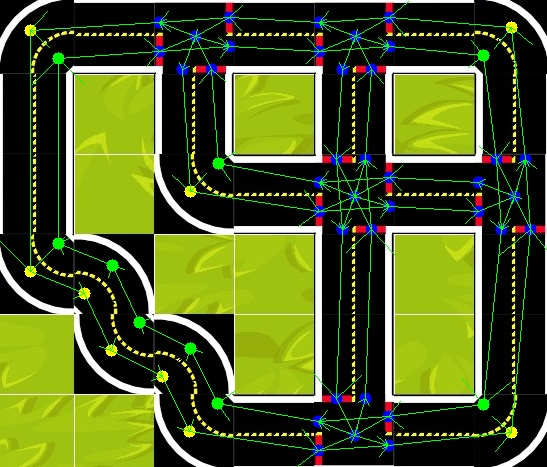
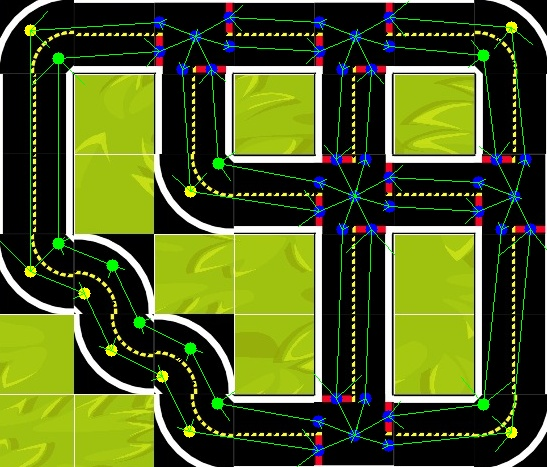
removed straight lines on intersections

diff --git a/graph_drawer/main.py b/graph_drawer/main.py
@@ -1102,29 +1102,29 @@ for node in centerBlock:
                 square_x_end = node_x + 5
 
                 #cv2.rectangle(result,(square_x_start,square_y_start),(square_x_end,square_y_end),(0,0,255),1)
-                for verExt in verticalExtensionNodes:
-                    verExt_x = verExt['x']
-                    verExt_y = verExt['y']
-                    findClose(square_x_start,square_x_end,square_y_start,square_y_end,verExt_x,verExt_y, node_x,node_y, resultBorder)
-                    #Search for turning point
+                # for verExt in verticalExtensionNodes:
+                #     verExt_x = verExt['x']
+                #     verExt_y = verExt['y']
+                #     findClose(square_x_start,square_x_end,square_y_start,square_y_end,verExt_x,verExt_y, node_x,node_y, resultBorder)
+                #     #Search for turning point
                 
-                if(foundNode['weight'] != 0):
-                    edges.append({
-                            'from': (int(node_x),int(node_y)),
-                            'to': (int(foundNode['x']),int(foundNode['y'])),
-                            'weight': int(foundNode['weight'])
-                        })
-                    for verExt in verticalExtensionNodes:
-                        if(verExt['x'] == foundNode['x']) and (verExt['y'] == foundNode['y']):
-                            verExt['from'] = (node_x,node_y)
-                            node['to'] = (verExt_x,verExt_y)
-                            if(verExt['road'] >= node['road']):
-                                verExt['road'] = node['road']
-                            else: 
-                                node['road'] = verExt['road']
-                    draw_arrow_with_weight(result,  (node_x, node_y),(foundNode['x'], foundNode['y']), foundNode['weight'])
-                    foundNode['weight'] = 0  
-                foundNode['weight'] = 0
+                # if(foundNode['weight'] != 0):
+                #     edges.append({
+                #             'from': (int(node_x),int(node_y)),
+                #             'to': (int(foundNode['x']),int(foundNode['y'])),
+                #             'weight': int(foundNode['weight'])
+                #         })
+                #     for verExt in verticalExtensionNodes:
+                #         if(verExt['x'] == foundNode['x']) and (verExt['y'] == foundNode['y']):
+                #             verExt['from'] = (node_x,node_y)
+                #             node['to'] = (verExt_x,verExt_y)
+                #             if(verExt['road'] >= node['road']):
+                #                 verExt['road'] = node['road']
+                #             else: 
+                #                 node['road'] = verExt['road']
+                #     draw_arrow_with_weight(result,  (node_x, node_y),(foundNode['x'], foundNode['y']), foundNode['weight'])
+                #     foundNode['weight'] = 0  
+                # foundNode['weight'] = 0
             #search right
             else:
                 square_x_start = node_x
@@ -1276,28 +1276,28 @@ for node in centerBlock:
                 square_x_start = node_x
                 square_x_end = cropped.shape[1]
 
-                for verExt in verticalExtensionNodes:
-                    verExt_x = verExt['x']
-                    verExt_y = verExt['y']
+                # for verExt in verticalExtensionNodes:
+                #     verExt_x = verExt['x']
+                #     verExt_y = verExt['y']
 
-                    findClose(square_x_start,square_x_end,square_y_start,square_y_end,verExt_x,verExt_y, node_x,node_y, resultBorder)
+                #     findClose(square_x_start,square_x_end,square_y_start,square_y_end,verExt_x,verExt_y, node_x,node_y, resultBorder)
 
-                if(foundNode['weight'] != 0):
-                    edges.append({
-                            'from': (int(node_x),int(node_y)),
-                            'to': (int(foundNode['x']),int(foundNode['y'])),
-                            'weight': int(foundNode['weight'])
-                        })
-                    for verExt in verticalExtensionNodes:
-                        if(verExt['x'] == foundNode['x']) and (verExt['y'] == foundNode['y']):
-                                verExt['from'] = (node_x,node_y)
-                                node['to'] = (verExt_x,verExt_y)
-                                if(verExt['road'] >= node['road']):
-                                    verExt['road'] = node['road']
-                                else: 
-                                    node['road'] = verExt['road']
-                    draw_arrow_with_weight(result,  (node_x, node_y),(foundNode['x'], foundNode['y']), foundNode['weight'])
-                    foundNode['weight'] = 0    
+                # if(foundNode['weight'] != 0):
+                #     edges.append({
+                #             'from': (int(node_x),int(node_y)),
+                #             'to': (int(foundNode['x']),int(foundNode['y'])),
+                #             'weight': int(foundNode['weight'])
+                #         })
+                #     for verExt in verticalExtensionNodes:
+                #         if(verExt['x'] == foundNode['x']) and (verExt['y'] == foundNode['y']):
+                #                 verExt['from'] = (node_x,node_y)
+                #                 node['to'] = (verExt_x,verExt_y)
+                #                 if(verExt['road'] >= node['road']):
+                #                     verExt['road'] = node['road']
+                #                 else: 
+                #                     node['road'] = verExt['road']
+                #     draw_arrow_with_weight(result,  (node_x, node_y),(foundNode['x'], foundNode['y']), foundNode['weight'])
+                #     foundNode['weight'] = 0    
 
 print("\n=== Creating Edges from Horizontal Nodes ===")
 for node in centerBlock:
@@ -1381,36 +1381,36 @@ for node in centerBlock:
                         foundNode['weight'] = 0
                 foundNode['weight'] = 0
             #search down
-            else:
-                square_y_start = node_y
-                square_y_end = cropped.shape[0]  
-                #search for horizontal extension nodes
-                for horExt in horizontalExtensionNodes:
+            # else:
+            #     square_y_start = node_y
+            #     square_y_end = cropped.shape[0]  
+            #     #search for horizontal extension nodes
+            #     for horExt in horizontalExtensionNodes:
         
-                    horExt_x = horExt['x']
-                    horExt_y = horExt['y']
+            #         horExt_x = horExt['x']
+            #         horExt_y = horExt['y']
 
-                    # Add nodes into found nodes
-                    findClose(square_x_start,square_x_end,square_y_start,square_y_end,horExt_x,horExt_y,node_x,node_y, resultBorder)
+            #         # Add nodes into found nodes
+            #         findClose(square_x_start,square_x_end,square_y_start,square_y_end,horExt_x,horExt_y,node_x,node_y, resultBorder)
 
                             
-                if(foundNode['weight'] != 0):
-                    edges.append({
-                            'from': (int(node_x),int(node_y)),
-                            'to': (int(foundNode['x']),int(foundNode['y'])),
-                            'weight': int(foundNode['weight'])
-                        })
-                    for horExt in horizontalExtensionNodes:
-                        if(horExt['x'] == foundNode['x']) and (horExt['y'] == foundNode['y']):
-                                horExt['from'] = (node_x,node_y)
-                                node['to'] = (horExt_x,horExt_y)
-                                if(horExt['road'] >= node['road']):
-                                    horExt['road'] = node['road']
-                                else: 
-                                    node['road'] = horExt['road']
-                    draw_arrow_with_weight(result, (node_x, node_y), (foundNode['x'], foundNode['y']), foundNode['weight'])
-                    foundNode['weight'] = 0
-                foundNode['weight'] = 0
+            #     if(foundNode['weight'] != 0):
+            #         edges.append({
+            #                 'from': (int(node_x),int(node_y)),
+            #                 'to': (int(foundNode['x']),int(foundNode['y'])),
+            #                 'weight': int(foundNode['weight'])
+            #             })
+            #         for horExt in horizontalExtensionNodes:
+            #             if(horExt['x'] == foundNode['x']) and (horExt['y'] == foundNode['y']):
+            #                     horExt['from'] = (node_x,node_y)
+            #                     node['to'] = (horExt_x,horExt_y)
+            #                     if(horExt['road'] >= node['road']):
+            #                         horExt['road'] = node['road']
+            #                     else: 
+            #                         node['road'] = horExt['road']
+            #         draw_arrow_with_weight(result, (node_x, node_y), (foundNode['x'], foundNode['y']), foundNode['weight'])
+            #         foundNode['weight'] = 0
+            #     foundNode['weight'] = 0
     elif(node['type'] == 'horizontal' and node['yellowOn'] == 'left'):
         node_x = node['x']
         node_y = node['y']
@@ -1427,32 +1427,32 @@ for node in centerBlock:
                 square_y_start = 0
                 square_y_end = node_y + 5  
                 #search for horizontal extension nodes
-                for horExt in horizontalExtensionNodes:
+                # for horExt in horizontalExtensionNodes:
         
-                    horExt_x = horExt['x']
-                    horExt_y = horExt['y']
+                #     horExt_x = horExt['x']
+                #     horExt_y = horExt['y']
 
-                    # Add nodes into found nodes
-                    findClose(square_x_start,square_x_end,square_y_start,square_y_end,horExt_x,horExt_y,node_x,node_y, resultBorder)
+                #     # Add nodes into found nodes
+                #     findClose(square_x_start,square_x_end,square_y_start,square_y_end,horExt_x,horExt_y,node_x,node_y, resultBorder)
 
                             
-                if(foundNode['weight'] != 0):
-                    edges.append({
-                            'from': (int(node_x),int(node_y)),
-                            'to': (int(foundNode['x']),int(foundNode['y'])),
-                            'weight': int(foundNode['weight'])
-                        })
-                    for horExt in horizontalExtensionNodes:
-                            if(horExt['x'] == foundNode['x']) and (horExt['y'] == foundNode['y']):
-                                horExt['from'] = (node_x,node_y)
-                                node['to'] = (horExt_x,horExt_y)
-                                if(horExt['road'] >= node['road']):
-                                    horExt['road'] = node['road']
-                                else: 
-                                    node['road'] = horExt['road']
-                    draw_arrow_with_weight(result, (node_x, node_y), (foundNode['x'], foundNode['y']), foundNode['weight'])
-                    foundNode['weight'] = 0  
-                foundNode['weight'] = 0
+                # if(foundNode['weight'] != 0):
+                #     edges.append({
+                #             'from': (int(node_x),int(node_y)),
+                #             'to': (int(foundNode['x']),int(foundNode['y'])),
+                #             'weight': int(foundNode['weight'])
+                #         })
+                #     for horExt in horizontalExtensionNodes:
+                #             if(horExt['x'] == foundNode['x']) and (horExt['y'] == foundNode['y']):
+                #                 horExt['from'] = (node_x,node_y)
+                #                 node['to'] = (horExt_x,horExt_y)
+                #                 if(horExt['road'] >= node['road']):
+                #                     horExt['road'] = node['road']
+                #                 else: 
+                #                     node['road'] = horExt['road']
+                #     draw_arrow_with_weight(result, (node_x, node_y), (foundNode['x'], foundNode['y']), foundNode['weight'])
+                #     foundNode['weight'] = 0  
+                # foundNode['weight'] = 0
 
             #search down
             else:
